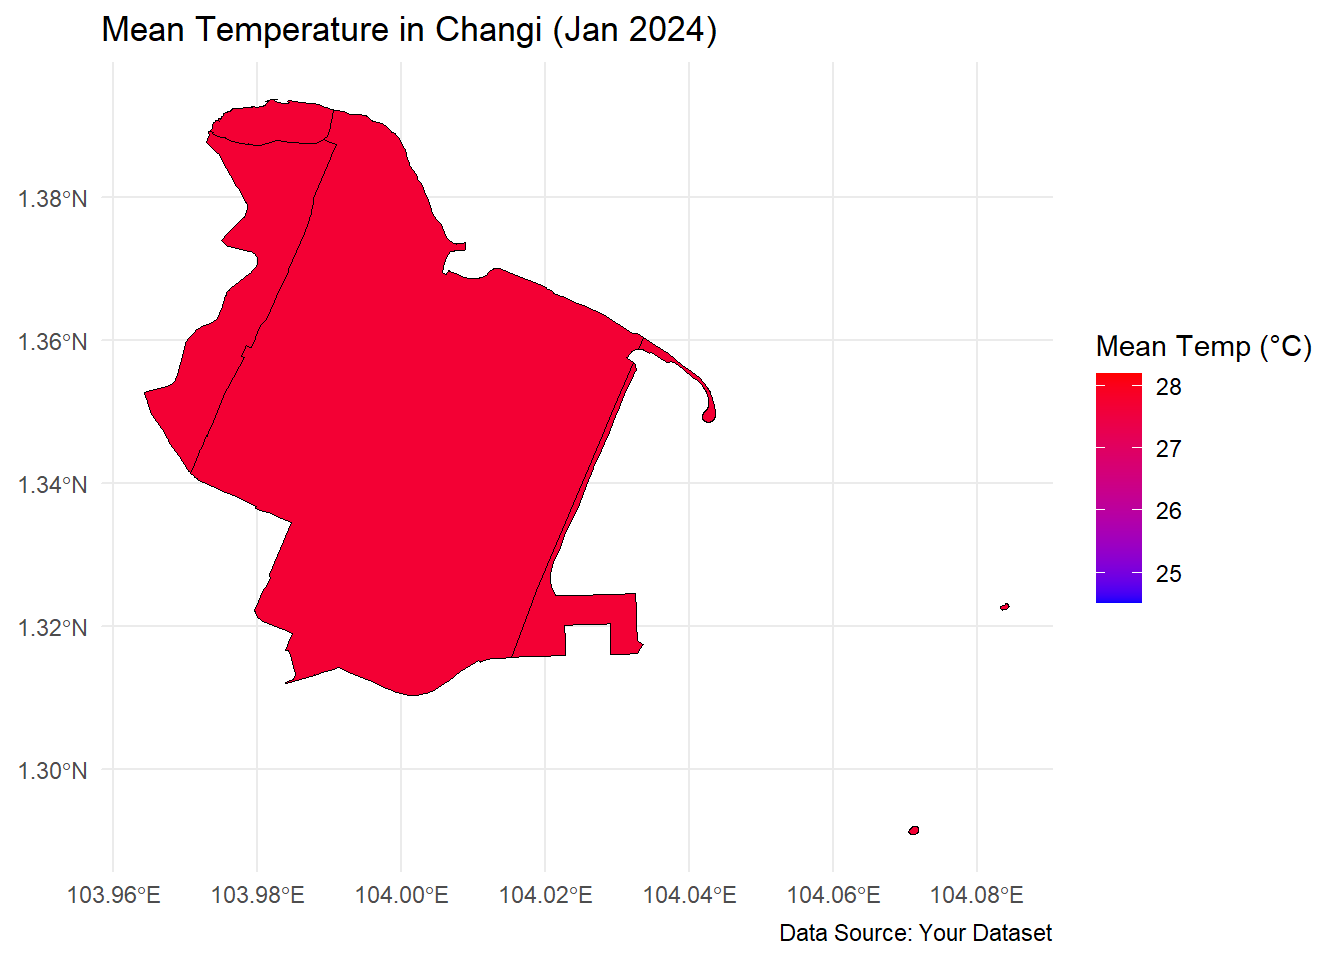
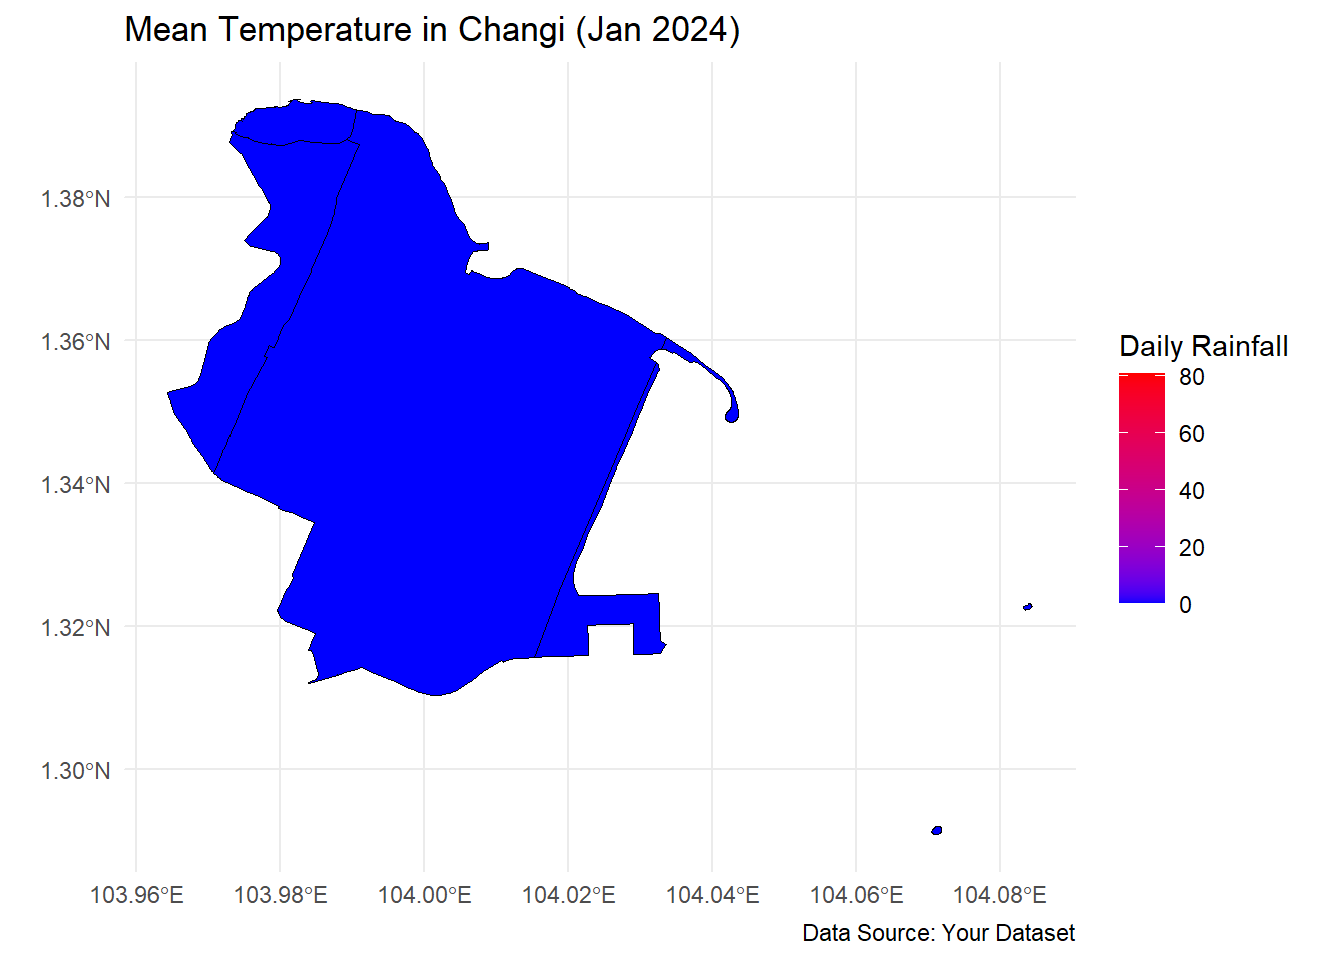
proposal

diff --git a/_site/Project/Meeting_Minutes/Meeting_Minutes2.html b/_site/Project/Meeting_Minutes/Meeting_Minutes2.html
@@ -6,10 +6,10 @@
 
 <meta name="viewport" content="width=device-width, initial-scale=1.0, user-scalable=yes">
 
-<meta name="author" content="Brigitta Karen Tsai, Enrico Limberg, TzuTing Huang">
-<meta name="dcterms.date" content="2025-03-11">
+<meta name="author" content="Brigitta Karen Tsai">
+<meta name="dcterms.date" content="2025-03-12">
 
-<title>Visual Analytics Project - Group 1 - Project Proposal</title>
+<title>Visual Analytics Project - Group 1 - Meeting Minutes 2</title>
 <style>
 code{white-space: pre-wrap;}
 span.smallcaps{font-variant: small-caps;}
@@ -91,7 +91,7 @@ ul.task-list li input[type="checkbox"] {
           <div class="collapse navbar-collapse" id="navbarCollapse">
             <ul class="navbar-nav navbar-nav-scroll me-auto">
   <li class="nav-item">
-    <a class="nav-link active" href="../../Project/Project_Proposal/Project_Proposal.html" aria-current="page"> 
+    <a class="nav-link" href="../../Project/Project_Proposal/Project_Proposal.html"> 
 <span class="menu-text">Project Proposal</span></a>
   </li>  
   <li class="nav-item">
@@ -132,23 +132,8 @@ ul.task-list li input[type="checkbox"] {
     <h2 id="toc-title">On this page</h2>
    
   <ul>
-  <li><a href="#project-proposal" id="toc-project-proposal" class="nav-link active" data-scroll-target="#project-proposal">Project Proposal</a></li>
-  <li><a href="#mapping-the-rain-analysing-rainfall-patterns-and-flood-risks-in-singapore" id="toc-mapping-the-rain-analysing-rainfall-patterns-and-flood-risks-in-singapore" class="nav-link" data-scroll-target="#mapping-the-rain-analysing-rainfall-patterns-and-flood-risks-in-singapore">Mapping the Rain: Analysing Rainfall Patterns and Flood Risks in Singapore</a>
-  <ul class="collapse">
-  <li><a href="#overview" id="toc-overview" class="nav-link" data-scroll-target="#overview">1 Overview</a>
-  <ul class="collapse">
-  <li><a href="#background" id="toc-background" class="nav-link" data-scroll-target="#background">1.1 Background</a></li>
-  <li><a href="#purpose-of-analysis" id="toc-purpose-of-analysis" class="nav-link" data-scroll-target="#purpose-of-analysis">1.2 Purpose of Analysis</a></li>
-  </ul></li>
-  <li><a href="#dataset" id="toc-dataset" class="nav-link" data-scroll-target="#dataset">2 Dataset</a></li>
-  <li><a href="#methodology" id="toc-methodology" class="nav-link" data-scroll-target="#methodology">3 Methodology</a>
-  <ul class="collapse">
-  <li><a href="#approach" id="toc-approach" class="nav-link" data-scroll-target="#approach">3.1 Approach</a></li>
-  <li><a href="#storyboards" id="toc-storyboards" class="nav-link" data-scroll-target="#storyboards">3.2 Storyboards</a></li>
-  </ul></li>
-  <li><a href="#limitations-and-challenges" id="toc-limitations-and-challenges" class="nav-link" data-scroll-target="#limitations-and-challenges">4 Limitations and Challenges</a></li>
-  <li><a href="#relevant-works" id="toc-relevant-works" class="nav-link" data-scroll-target="#relevant-works">5 Relevant Works</a></li>
-  </ul></li>
+  <li><a href="#minutes-of-meeting-2" id="toc-minutes-of-meeting-2" class="nav-link active" data-scroll-target="#minutes-of-meeting-2">Minutes of Meeting 2</a></li>
+  <li><a href="#discussion" id="toc-discussion" class="nav-link" data-scroll-target="#discussion">1 Discussion</a></li>
   </ul>
 </nav>
     </div>
@@ -157,7 +142,7 @@ ul.task-list li input[type="checkbox"] {
 
 <header id="title-block-header" class="quarto-title-block default">
 <div class="quarto-title">
-<h1 class="title">Project Proposal</h1>
+<h1 class="title">Meeting Minutes 2</h1>
 </div>
 
 
@@ -167,14 +152,14 @@ ul.task-list li input[type="checkbox"] {
     <div>
     <div class="quarto-title-meta-heading">Author</div>
     <div class="quarto-title-meta-contents">
-             <p>Brigitta Karen Tsai, Enrico Limberg, TzuTing Huang </p>
+             <p>Brigitta Karen Tsai </p>
           </div>
   </div>
     
     <div>
     <div class="quarto-title-meta-heading">Published</div>
     <div class="quarto-title-meta-contents">
-      <p class="date">March 11, 2025</p>
+      <p class="date">March 12, 2025</p>
     </div>
   </div>
   
@@ -192,69 +177,16 @@ ul.task-list li input[type="checkbox"] {
 </header>
 
 
-<section id="project-proposal" class="level1">
-<h1>Project Proposal</h1>
+<section id="minutes-of-meeting-2" class="level1">
+<h1>Minutes of Meeting 2</h1>
+<p><strong>Date:</strong> March 11, 2025</p>
+<p><strong>Attendees:</strong> Brigitta Karen Tsai, Enrico Limberg, Hannah</p>
+<p><strong>Agenda:</strong> Finalising Topic and Visual Storyboard</p>
 </section>
-<section id="mapping-the-rain-analysing-rainfall-patterns-and-flood-risks-in-singapore" class="level1">
-<h1>Mapping the Rain: Analysing Rainfall Patterns and Flood Risks in Singapore</h1>
-<section id="overview" class="level2">
-<h2 class="anchored" data-anchor-id="overview">1 Overview</h2>
-<section id="background" class="level3">
-<h3 class="anchored" data-anchor-id="background">1.1 Background</h3>
-<p>In December 29, 2024, Singapore residents were concerned with flash flood, which happened in Bukit Timah area, triggered by heavy rainfall. This flood has brought many people’s attention towards the increasing frequency of rainfall. PUB (Public Utilities Board) highlighted that the Bukit Timah area is prone to flooding, and the drainage system improvement works has been ongoing over the past decade. They have also issued flood risk warnings for nearly 20 location points, including Bukit Timah and Toa Payoh area, as well as western and central areas. This extreme climate change has influenced weather patterns. Singapore faces many challenges managing these weather fluctuations to minimize the impact towards their residents and the landscapes. (<em>source: <a href="https://www.channelnewsasia.com/singapore/flash-floods-bukit-timah-heavy-rain-weather-4830136">Channel News Asia</a></em>)</p>
-</section>
-<section id="purpose-of-analysis" class="level3">
-<h3 class="anchored" data-anchor-id="purpose-of-analysis">1.2 Purpose of Analysis</h3>
-<p>As weather enthusiasts, who have high curiosity on weather changes and impacts towards the daily life of Singapore residents, our team has decided to further deep-dive into weather data, unveiling the pattern of rainfalls and exploring the association between rainfall patterns and flood risks, to avoid potential future floods happening in Singapore. As Singapore is a tropical country, Singapore is iconic for its high humidity, leading to frequent rainfalls. As the climate continue to evolve, understanding the historical rainfall patterns is crucial for either residents’ activities, urban planning and even safeguarding public facilities. Hence, by carefully processing weather data and visualising it, our team aims to develop enhanced Shiny app for several purposes, to raise residents’ awareness towards rainfall periods, carefully planning their activities, and also to support key government decisions influenced by weather conditions.</p>
-</section>
-</section>
-<section id="dataset" class="level2">
-<h2 class="anchored" data-anchor-id="dataset">2 Dataset</h2>
-<p>To create a data-driven visual storyboard, our team will use <strong>Shiny App</strong> to present our findings, and the following dataset will be utilized to support our analysis:</p>
-<ol type="1">
-<li><strong>Singapore’s Weather Data</strong>
-<ol type="1">
-<li>Source: <a href="https://www.weather.gov.sg/climate-historical-daily/"><em>Historical Daily Weather Records</em></a></li>
-<li>File Type: csv file</li>
-</ol></li>
-<li><strong>Singapore’s Geospatial Boundaries Data</strong>
-<ol type="1">
-<li>Source<em>:</em> <a href="https://data.gov.sg/datasets/d_ae891df9d691b091f5383f87b842645a/view"><em>Master Plan 2014 Planning Area Boundary</em></a></li>
-<li>File Type: shp file</li>
-</ol></li>
-</ol>
-<p>To further enhance our analysis, our team might possibly use additional datasets to present meaningful findings. According to our analysis, our team is also evaluating several datasets to determine if reliable sources and data are available, which will be further discussed during the process of building our project. The following are the dataset topics that might be considered:</p>
-<ol type="1">
-<li><strong>Sea Level Changes in Singapore Coastal Areas</strong></li>
-<li><strong>Population Density across Singapore Regions</strong></li>
-</ol>
-</section>
-<section id="methodology" class="level2">
-<h2 class="anchored" data-anchor-id="methodology">3 Methodology</h2>
-<section id="approach" class="level3">
-<h3 class="anchored" data-anchor-id="approach">3.1 Approach</h3>
-<p>Our team aims to use visual analytics methods, from both methodology taught in <strong>ISSS608 Visual Analytics and Application</strong> course and other external sources that our team can refer to. Our team aims to use methods such as <strong>time-series analysis, geospatial mapping</strong> and <strong>descriptive visualisations</strong> using <strong>R</strong> libraries such as:</p>
-<ol type="1">
-<li><strong>Descriptive Visuals:</strong> ggplot2, shiny, plotly, etc</li>
-<li><strong>Geospatial Mapping:</strong> tmap, sf</li>
-<li><strong>Time-series Analysis:</strong> tsibble, feasts, seasonal, lubridate</li>
-</ol>
-<p>These R packages will be carefully utilized according to our analysis needs during the project work.</p>
-</section>
-<section id="storyboards" class="level3">
-<h3 class="anchored" data-anchor-id="storyboards">3.2 Storyboards</h3>
-<p>Our team has created a rough storyboard and carefully planned the flow of our analysis, to ease readers in understanding the presented visuals. Our team will begin with geospatial mapping, to see the overall rainfall patterns across Singapore’s regions. Through the geospatial mapping, we will find out regions with highest frequency of rainfall, highlighting areas that requires extra attention. The storyboard will continue with several time-series analysis, unveiling the weather patterns of different regions and areas in Singapore. After the overall analysis, we will zoom in to certain areas that have higher frequency of rainfalls, analysing starting from monthly, weekly, to the daily records. In addition, our team will also analyse the intensity level of the rainfall (heavy/ light rains) in these highlighted areas. By combining visualisation methods both listed in this proposal and other potential visualisation methods that we might explore during the process, our team will unveil the hidden patterns and cause of weather issues in Singapore.</p>
-</section>
-</section>
-<section id="limitations-and-challenges" class="level2">
-<h2 class="anchored" data-anchor-id="limitations-and-challenges">4 Limitations and Challenges</h2>
-<p>Our team aims to present as detailed findings as possible through these data visualisations. However, there are several limitations that we found during the dataset exploration and topic exploration. The weather data provided by <a href="https://www.weather.gov.sg/climate-historical-daily/"><em>Meteorological Service Singapore</em></a><em>’s</em> website has several issues. Out of the 63 regions listed, 19 regions do not have weather records at all, and 27 regions have rainfall records, but not temperature data, which could have enhanced our analysis. To tackle this, we will select regions in each administrative district that have complete data. There is also another challenge in this dataset. The website provides monthly records of each region, hence, our team will need to extract the data monthly and merge it during the process. Our team will carefully select and extract the required data accordingly.</p>
-</section>
-<section id="relevant-works" class="level2">
-<h2 class="anchored" data-anchor-id="relevant-works">5 Relevant Works</h2>
+<section id="discussion" class="level1">
+<h1>1 Discussion</h1>
 
 
-</section>
 </section>
 
 </main> <!-- /main -->

diff --git a/_site/Project/Trial/Trial.html b/_site/Project/Trial/Trial.html
@@ -162,7 +162,14 @@ pre > code.sourceCode > span > a:first-child::before { text-decoration: underlin
 <!-- sidebar -->
 <!-- margin-sidebar -->
     <div id="quarto-margin-sidebar" class="sidebar margin-sidebar">
-        
+        <nav id="TOC" role="doc-toc" class="toc-active">
+    <h2 id="toc-title">On this page</h2>
+   
+  <ul>
+  <li><a href="#weather-data-trial" id="toc-weather-data-trial" class="nav-link active" data-scroll-target="#weather-data-trial">1 Weather Data (Trial)</a></li>
+  <li><a href="#government-procurement-data-trial" id="toc-government-procurement-data-trial" class="nav-link" data-scroll-target="#government-procurement-data-trial">2 Government Procurement Data (Trial)</a></li>
+  </ul>
+</nav>
     </div>
 <!-- main -->
 <main class="content" id="quarto-document-content">
@@ -204,6 +211,8 @@ pre > code.sourceCode > span > a:first-child::before { text-decoration: underlin
 </header>
 
 
+<section id="weather-data-trial" class="level2">
+<h2 class="anchored" data-anchor-id="weather-data-trial">1 Weather Data (Trial)</h2>
 <div class="cell">
 <div class="sourceCode cell-code" id="cb1"><pre class="sourceCode r code-with-copy"><code class="sourceCode r"><span id="cb1-1"><a href="#cb1-1" aria-hidden="true" tabindex="-1"></a>pacman<span class="sc">::</span><span class="fu">p_load</span>(sp, sf, raster, spatstat, tmap, tidyverse,</span>
 <span id="cb1-2"><a href="#cb1-2" aria-hidden="true" tabindex="-1"></a>               spNetwork, tmaptools)</span></code><button title="Copy to Clipboard" class="code-copy-button"><i class="bi"></i></button></pre></div>
@@ -343,8 +352,8 @@ PROJCRS["SVY21",
 </div>
 <div class="cell">
 <div class="sourceCode cell-code" id="cb22"><pre class="sourceCode r code-with-copy"><code class="sourceCode r"><span id="cb22-1"><a href="#cb22-1" aria-hidden="true" tabindex="-1"></a><span class="fu">ggplot</span>(changi) <span class="sc">+</span></span>
-<span id="cb22-2"><a href="#cb22-2" aria-hidden="true" tabindex="-1"></a>  <span class="fu">geom_sf</span>(<span class="fu">aes</span>(<span class="at">fill =</span> <span class="st">`</span><span class="at">Mean Temperature (°C)</span><span class="st">`</span>), <span class="at">color =</span> <span class="st">"black"</span>) <span class="sc">+</span> </span>
-<span id="cb22-3"><a href="#cb22-3" aria-hidden="true" tabindex="-1"></a>  <span class="fu">scale_fill_gradient</span>(<span class="at">low =</span> <span class="st">"blue"</span>, <span class="at">high =</span> <span class="st">"red"</span>, <span class="at">name =</span> <span class="st">"Mean Temp (°C)"</span>) <span class="sc">+</span></span>
+<span id="cb22-2"><a href="#cb22-2" aria-hidden="true" tabindex="-1"></a>  <span class="fu">geom_sf</span>(<span class="fu">aes</span>(<span class="at">fill =</span> <span class="st">`</span><span class="at">Daily Rainfall Total (mm)</span><span class="st">`</span>), <span class="at">color =</span> <span class="st">"black"</span>) <span class="sc">+</span> </span>
+<span id="cb22-3"><a href="#cb22-3" aria-hidden="true" tabindex="-1"></a>  <span class="fu">scale_fill_gradient</span>(<span class="at">low =</span> <span class="st">"blue"</span>, <span class="at">high =</span> <span class="st">"red"</span>, <span class="at">name =</span> <span class="st">"Daily Rainfall"</span>) <span class="sc">+</span></span>
 <span id="cb22-4"><a href="#cb22-4" aria-hidden="true" tabindex="-1"></a>  <span class="fu">theme_minimal</span>() <span class="sc">+</span></span>
 <span id="cb22-5"><a href="#cb22-5" aria-hidden="true" tabindex="-1"></a>  <span class="fu">labs</span>(<span class="at">title =</span> <span class="st">"Mean Temperature in Changi (Jan 2024)"</span>,</span>
 <span id="cb22-6"><a href="#cb22-6" aria-hidden="true" tabindex="-1"></a>       <span class="at">caption =</span> <span class="st">"Data Source: Your Dataset"</span>) <span class="sc">+</span></span>
@@ -357,8 +366,12 @@ PROJCRS["SVY21",
 </div>
 </div>
 </div>
+</section>
+<section id="government-procurement-data-trial" class="level2">
+<h2 class="anchored" data-anchor-id="government-procurement-data-trial">2 Government Procurement Data (Trial)</h2>
 
 
+</section>
 
 </main> <!-- /main -->
 <script id="quarto-html-after-body" type="application/javascript">

diff --git a/_site/Project/Meeting_Minutes/Meeting_Minutes1.html b/_site/Project/Meeting_Minutes/Meeting_Minutes1.html
@@ -132,7 +132,7 @@ ul.task-list li input[type="checkbox"] {
     <h2 id="toc-title">On this page</h2>
    
   <ul>
-  <li><a href="#meeting-minutes" id="toc-meeting-minutes" class="nav-link active" data-scroll-target="#meeting-minutes">Meeting Minutes</a>
+  <li><a href="#minutes-of-meeting-1" id="toc-minutes-of-meeting-1" class="nav-link active" data-scroll-target="#minutes-of-meeting-1">Minutes of Meeting 1</a>
   <ul class="collapse">
   <li><a href="#discussion-summary" id="toc-discussion-summary" class="nav-link" data-scroll-target="#discussion-summary"><strong>1 Discussion Summary</strong></a>
   <ul class="collapse">
@@ -173,7 +173,7 @@ ul.task-list li input[type="checkbox"] {
     <div>
     <div class="quarto-title-meta-heading">Modified</div>
     <div class="quarto-title-meta-contents">
-      <p class="date-modified">March 11, 2025</p>
+      <p class="date-modified">March 12, 2025</p>
     </div>
   </div>
     
@@ -184,8 +184,8 @@ ul.task-list li input[type="checkbox"] {
 </header>
 
 
-<section id="meeting-minutes" class="level1">
-<h1>Meeting Minutes</h1>
+<section id="minutes-of-meeting-1" class="level1">
+<h1>Minutes of Meeting 1</h1>
 <p><strong>Date:</strong> March 4, 2025</p>
 <p><strong>Attendees:</strong> Brigitta Karen Tsai (BK), ENRICO LIMBERG (EL), Hannah (HH)</p>
 <p><strong>Agenda:</strong></p>
